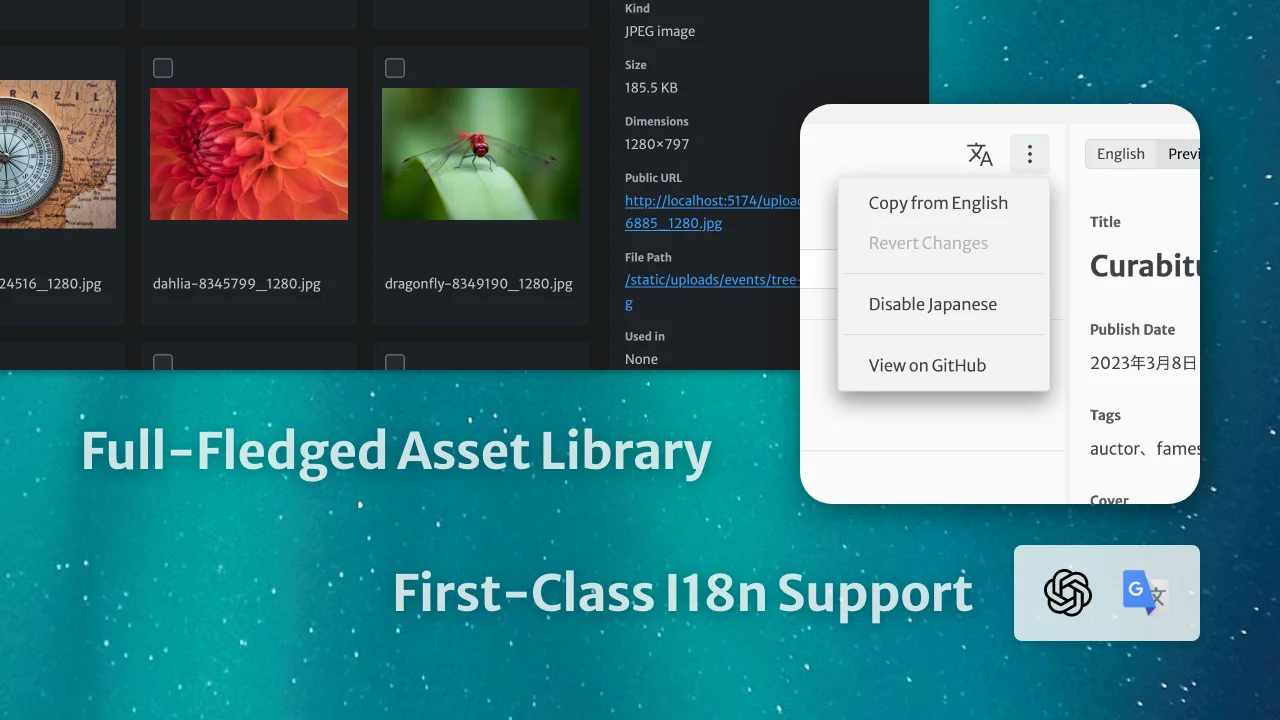
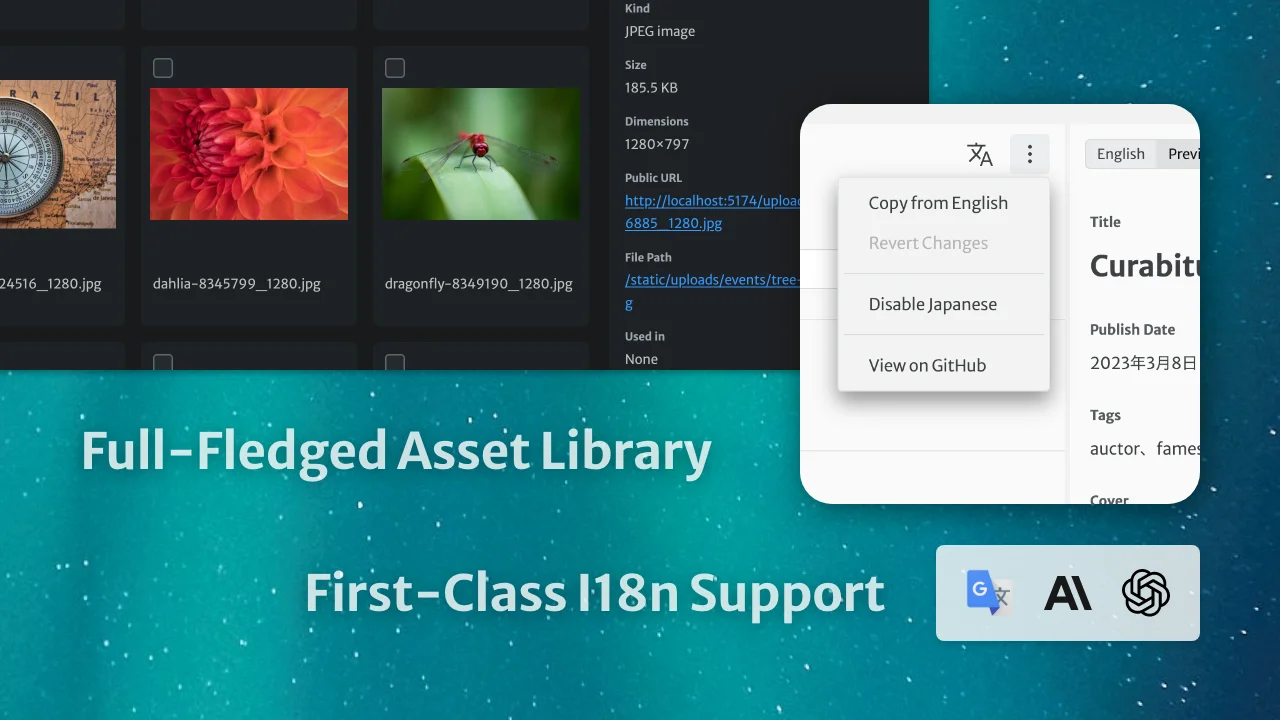
[skip ci] Update README.md

Changed region(s): [[0.2188, 0.7333, 0.9375, 0.9167]]

diff --git a/README.md b/README.md
@@ -12,7 +12,7 @@ Welcome to the only Netlify CMS successor you can trust!
 
 ![Stock photo integration: Pexels, Pixabay, Unsplash](https://raw.githubusercontent.com/sveltia/sveltia-cms/main/docs/screenshot-3.webp?20250405)<br>
 
-![Full-fledged Asset Library; first-class internationalization support; Google Cloud Translation and OpenAI integration](https://raw.githubusercontent.com/sveltia/sveltia-cms/main/docs/screenshot-4.webp?20250812)<br>
+![Full-fledged Asset Library; first-class internationalization support; Google Cloud Translation, Anthropic and OpenAI integration](https://raw.githubusercontent.com/sveltia/sveltia-cms/main/docs/screenshot-4.webp?20250831)<br>
 
 ![Built-in image optimizer for WebP and SVG; mobile & tablet support](https://raw.githubusercontent.com/sveltia/sveltia-cms/main/docs/screenshot-5.webp?20250409)<br>
 
@@ -344,15 +344,18 @@ Sveltia CMS has been built with a multilingual architecture from the very beginn
   - The collection `folder` can be an empty string (or `.` or `/`) if you want to store entries in the root folder. This supports a typical VitePress setup.
 - Entry slugs
   - It’s possible to [use a random UUID for an entry slug](#using-a-random-id-for-an-entry-slug).
+  - Entry slug are editable.[^184]
+    - To allow users to explicitly edit the entry slug in an initial entry draft, add `{{fields._slug}}` to the `slug` collection option. This will display a special slug editor UI that looks like a standard string field, but the value will be used as the entry slug.
+    - Once an entry is saved, users can edit the slug via the 3-dot menu in the Content Editor.
+  - Entry slugs are [localizable](#localizing-entry-slugs).[^80]
+    - Use `{{fields._slug | localize}}` to make the slug field editable and localizable.
   - Slug generation is fail-safe: If a slug cannot be determined from entry content, part of a random UUID is used instead of throwing an error or filling in with arbitrary string field values.[^133]
-  - Users can edit entry slugs via the 3-dot menu in the Content Editor.[^184]
   - If a collection only has the Markdown `body` field, an entry slug will be generated from a header in the `body`, if exists. This supports a typical VitePress setup.
   - Entry slug template tags support [transformations](https://decapcms.org/docs/summary-strings/) just like summary string template tags.[^29]
   - Single quotes (apostrophes) in a slug will be replaced with `sanitize_replacement` (default: hyphen) rather than being removed.[^52]
   - The [global `slug` option](https://decapcms.org/docs/configuration-options/#slug-type) accepts the `trim` option to remove leading and trailing replacement characters, such as hyphens, from an entry slug. The default value is `true`. Set to `false` to keep them.
   - The maximum number of characters for an entry slug can be set with the new `slug_length` collection option to avoid deployment errors with Netlify or other platforms.[^25]
   - Setting the collection `path` doesn’t affect the entry slugs stored with the Relation widget.[^137]
-  - Entry slugs are [localizable](#localizing-entry-slugs).[^80]
 - Entry listing
   - The [default sort field and direction](#specifying-default-entry-sort-field-and-direction) can be specified.[^172]
   - The default filter and group can also be specified in the same way as with [Static CMS](https://staticjscms.netlify.app/docs/collection-overview#view-filters).[^269]
@@ -1112,7 +1115,7 @@ The configuration for a [file collection](https://decapcms.org/docs/collection-f
 
 ### Translating entry fields with one click
 
-Sveltia CMS comes with a handy translation API integration so that you can translate any text field from another locale without leaving the Content Editor. Currently, Google’s Cloud Translation and OpenAI’s GPT-3.5 Turbo are supported. To enable the quick translation feature:
+Sveltia CMS comes with a handy translation API integration so that you can translate any text field from another locale without leaving the Content Editor. Currently, Google’s Cloud Translation, Anthropic’s Claude Haiku 3.5 and OpenAI’s GPT-3.5 Turbo are supported. To enable the quick translation feature:
 
 1. Update your configuration file to enable the [i18n support](https://decapcms.org/docs/i18n/) with multiple locales.
 1. Create a new API key for the translation service of your choice:
@@ -1120,6 +1123,10 @@ Sveltia CMS comes with a handy translation API integration so that you can trans
      1. Sign in or sign up for [Google Cloud](https://cloud.google.com/) and create a new project.
      1. Enable the [Cloud Translation API](https://console.cloud.google.com/apis/library/translate.googleapis.com). It’s free up to 500,000 characters per month.
      1. Create a [new API key](https://console.cloud.google.com/apis/api/translate.googleapis.com/credentials) and copy it.
+   - Anthropic
+     1. Sign in or sign up for [Anthropic Developer Platform](https://docs.anthropic.com/en/api/overview).
+     1. Add a credit balance (minimum $5) to your account.
+     1. Create a [new API key](https://console.anthropic.com/settings/keys) and copy it.
    - OpenAI
      1. Sign in or sign up for [OpenAI Platform](https://platform.openai.com/docs/overview) and create a new project.
      1. Add a credit balance (minimum $5) to your account.
@@ -1641,6 +1648,11 @@ Then, add the following origins depending on your Git backend and enabled integr
   - `connect-src`
     ```
     https://translation.googleapis.com
+    ```
+- Anthropic:
+  - `connect-src`
+    ```
+    https://api.anthropic.com
     ```
 - OpenAI:
   - `connect-src`
